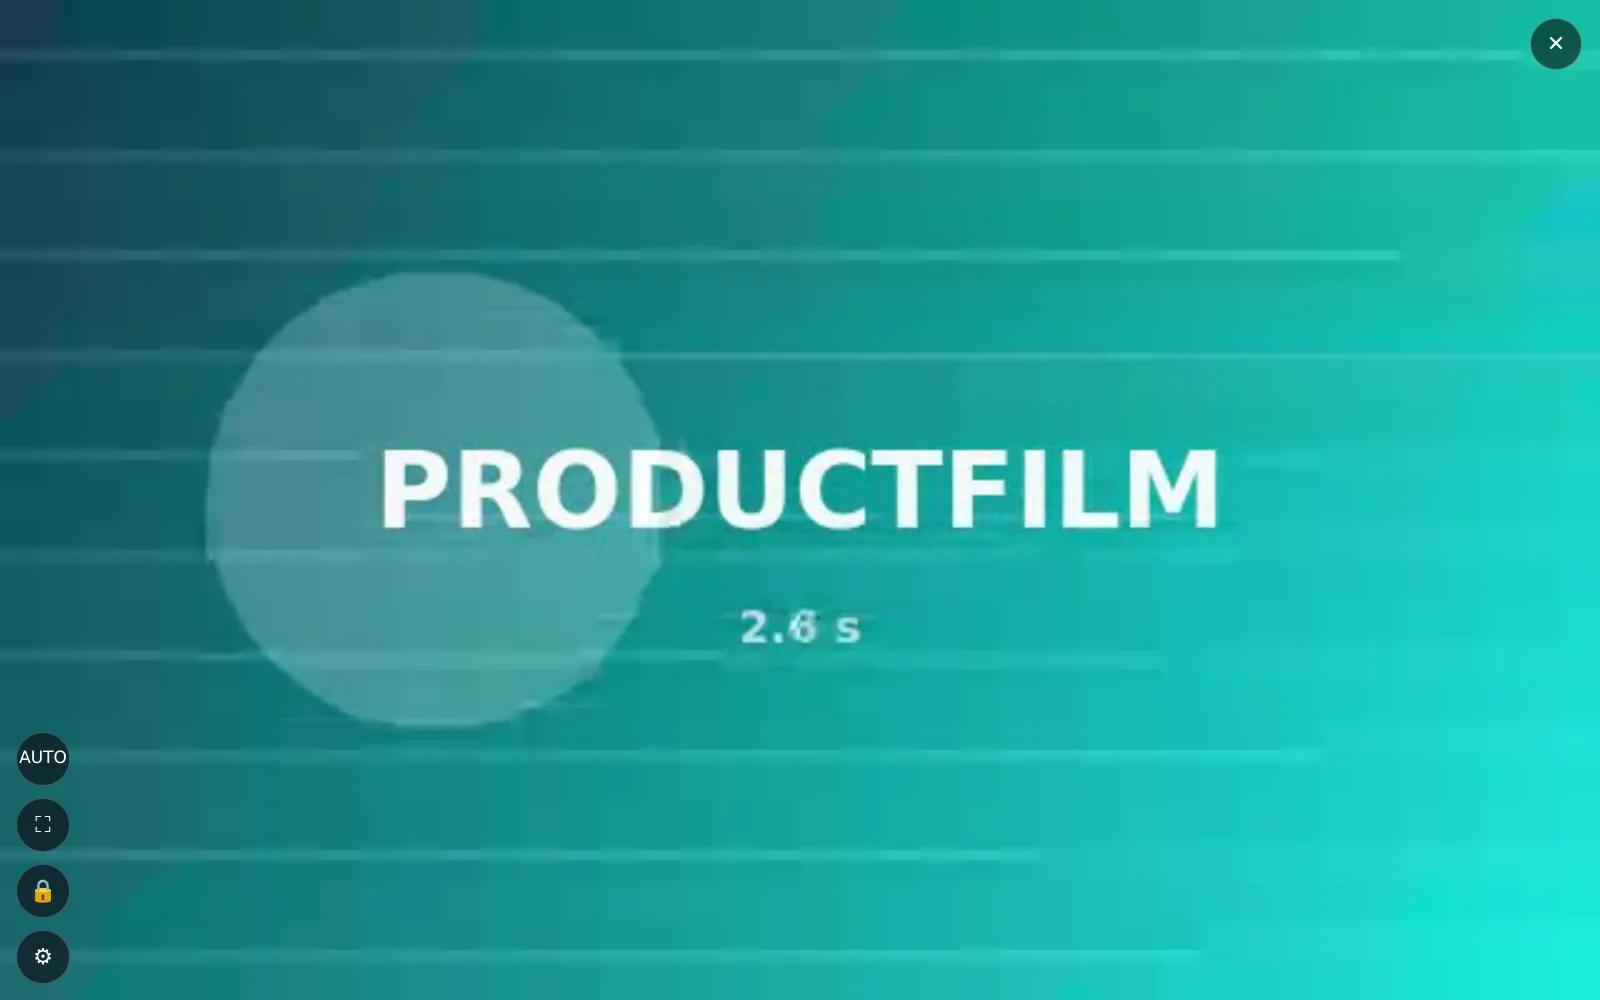
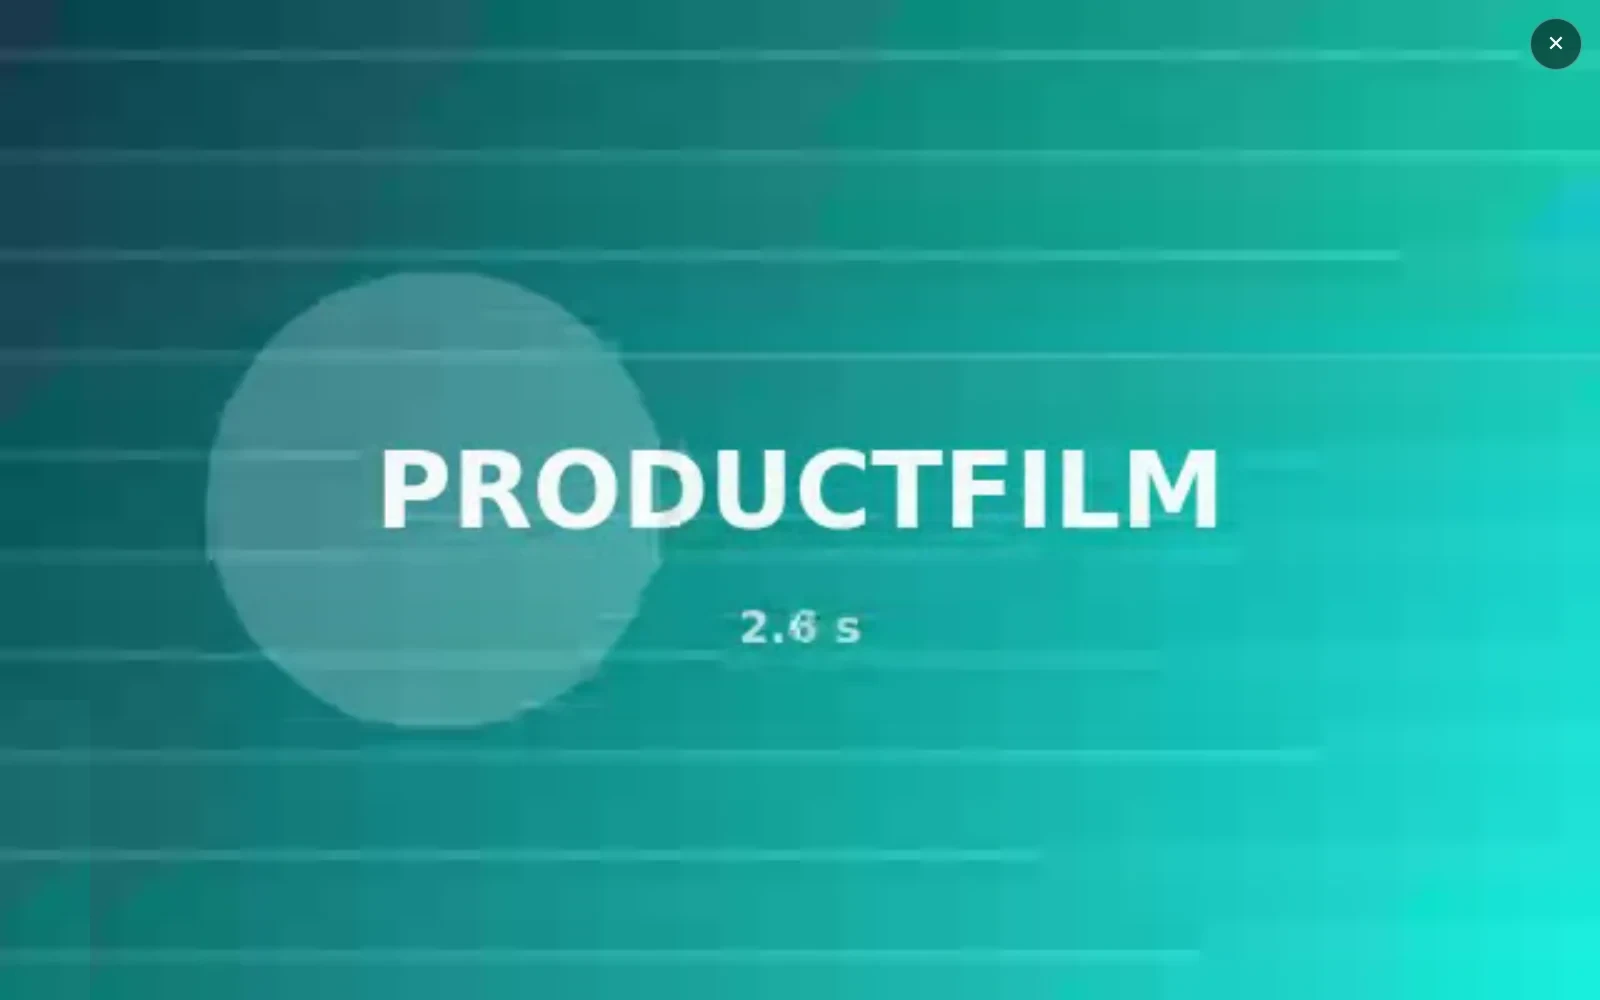
v2.30.0: geen menuknoppen meer op het bezoekersscherm, in geen enkele situatie
Links onder stonden voor bezoekers soms toch de vier ronde knoppen (menu,
verplaatsen, volledig scherm, oriëntatie):
- bij een lege scène (geen knoppen, achtergrondvideo of titel) kwamen ze
  bewust terug, bedoeld voor een nieuwe installatie; wie alleen met de
  reeks en de klikker werkt heeft precies zo'n scène;
- met de keuze "Vaag" of "Zichtbaar" bleven ze staan.

Nu:
- De knoppen staan nooit meer op het scherm (.fab altijd verborgen). Het
  menu opent alleen met 5x tikken linksboven; alles wat de knoppen deden
  zit in het menu. De keuze Verborgen/Vaag/Zichtbaar is vervallen en
  vervangen door uitleg; configversie 20 ruimt de oude instelling op.
- Het welkomstscherm met indelingen verschijnt alleen nog bij een echt
  nieuwe installatie (nog geen bestanden, geen reeks) en zegt hoe je in
  het menu komt. Een indeling kiezen vraagt eerst de PIN als die er is.
- Bedieningsboek, LEES MIJ en vijf afbeeldingen bijgewerkt.

Claude-Session: https://claude.ai/code/session_01JbKNtV5JTsHZmL1UfMwTJN

Changed region(s): [[0.0, 0.713, 0.0625, 0.992]]

diff --git a/docs/handleiding/index.html b/docs/handleiding/index.html
@@ -289,7 +289,7 @@ header.cover{padding-block:88px 8px}
   <b>wat</b> het doet, <b>waar</b> het staat en <b>waarom</b> het er zo uitziet.
   Alle afbeeldingen komen uit de draaiende software, niet uit een ontwerp.</p>
   <div class="meta">
-    <span>Versie 2.29.0</span><span>23 hoofdstukken</span><span>36 schermafbeeldingen</span>
+    <span>Versie 2.30.0</span><span>23 hoofdstukken</span><span>36 schermafbeeldingen</span>
     <span>Nederlands</span>
   </div>
 </header>
@@ -386,10 +386,10 @@ header.cover{padding-block:88px 8px}
   <figure>
     <div class="shot">
       <img src="img/podium.webp" alt="Het podium: de holobox zoals de bezoeker hem ziet, met vier tegels" width="1600" height="1000" loading="lazy">
-      <span class="pin" style="left:6.5%;top:47%">1</span>
+      <span class="pin" style="left:11.5%;top:6.5%">1</span>
       <span class="pin" style="left:32.5%;top:38%">2</span>
       <span class="pin" style="left:50%;top:9.5%">3</span>
-      <span class="pin" style="left:3.4%;top:91%">4</span>
+      <span class="pin" style="left:4%;top:14%">4</span>
     </div>
     <ul class="legend">
       <li><span class="n">1</span><span><b>Het logo</b> <span class="q">— staat er alleen als
@@ -399,11 +399,10 @@ header.cover{padding-block:88px 8px}
         is opzettelijk: de bezoeker ziet vooraf wat er gaat gebeuren.</span></span></li>
       <li><span class="n">3</span><span><b>De titel van de scène</b> <span class="q">— per
         scène apart in te stellen bij Scherm &amp; scène.</span></span></li>
-      <li><span class="n">4</span><span><b>De vier bedieningsknoppen</b> <span class="q">—
-        oriëntatie, volledig scherm, het slot (verplaats-modus) en het tandwiel dat de editor
-        opent. Op de box zijn ze <b>standaard verborgen</b>, zodat omstanders er niet op
-        drukken; het menu open je dan met <b>5&times; snel tikken linksboven</b>. Op deze
-        afbeelding staan ze op Zichtbaar.</span></span></li>
+      <li><span class="n">4</span><span><b>De weg naar het menu</b> <span class="q">— er staan
+        geen menuknoppen op het scherm, zodat bezoekers niet bij de instellingen kunnen. Het
+        menu open je met <b>5&times; snel tikken in de hoek linksboven</b> (binnen 4 seconden;
+        met een muis 5&times; klikken). Zet een PIN voor een extra slot.</span></span></li>
     </ul>
     <figcaption><b>Het podium.</b> Dit is wat er op de holobox staat. Verder niets: geen
     menubalken, geen browser-chrome, geen muisaanwijzer.</figcaption>
@@ -695,10 +694,10 @@ header.cover{padding-block:88px 8px}
   <figure>
     <div class="shot">
       <img src="img/canvas-bewerken.webp" alt="Het canvas in bewerkmodus met raster en hulplijnen" width="1600" height="1000" loading="lazy">
-      <span class="pin" style="left:46%;top:7.7%">1</span>
-      <span class="pin" style="left:62.2%;top:7.7%">2</span>
-      <span class="pin" style="left:72.9%;top:7.7%">3</span>
-      <span class="pin" style="left:77.1%;top:7.7%">4</span>
+      <span class="pin" style="left:56.5%;top:7.6%">1</span>
+      <span class="pin" style="left:62.2%;top:7.6%">2</span>
+      <span class="pin" style="left:72.9%;top:7.6%">3</span>
+      <span class="pin" style="left:77.1%;top:7.6%">4</span>
     </div>
     <ul class="legend">
       <li><span class="n">1</span><span><b>Fit</b> <span class="q">— past het podium precies in
@@ -956,7 +955,7 @@ header.cover{padding-block:88px 8px}
 
   <div class="wwww">
     <div><dt>Wie</dt><dd>De bouwer, per scène.</dd></div>
-    <div><dt>Wat</dt><dd>Titel, achtergrondvideo, overlaag, volume, oriëntatie, bedieningsknoppen,
+    <div><dt>Wat</dt><dd>Titel, achtergrondvideo, overlaag, volume, oriëntatie,
       taal en navigatiehulp.</dd></div>
     <div><dt>Waar</dt><dd>Vierde tabblad. De bovenste blok geldt voor <em>deze</em> scène,
       de onderste voor de hele experience.</dd></div>
@@ -995,13 +994,11 @@ header.cover{padding-block:88px 8px}
           <td>Holoboxen hangen soms gekanteld. Deze instelling draait het beeld mee.</td></tr>
         <tr><td>Knoppen verbergen tijdens afspelen</td><td>Tegels verdwijnen zodra een video start.</td>
           <td>Zonder dit blijft de menulaag over de film heen liggen.</td></tr>
-        <tr><td>Bedieningsknoppen links onder</td><td><b>Verborgen</b> (standaard): de vier
-          ronde knoppen zijn weg en niet aan te raken; het menu open je met 5&times; snel tikken
-          linksboven. <b>Vaag</b>: bijna onzichtbaar, verschijnen bij aanwijzen (de oude
-          kioskmodus). <b>Zichtbaar</b>.</td>
-          <td>Omstanders drukken anders voor de grap op het tandwiel en veranderen instellingen.
-          Zolang een project nog leeg is (welkomstscherm) staan de knoppen er wel, anders
-          kom je bij een nieuwe installatie niet binnen.</td></tr>
+        <tr><td>Menu openen</td><td>Uitleg: er staan geen menuknoppen op het scherm; het menu
+          open je met 5&times; snel tikken in de hoek linksboven.</td>
+          <td>Vroeger stonden links onder vier ronde knoppen. Omstanders drukten erop en
+          veranderden instellingen. Sinds versie 2.30 zijn ze er nooit meer, in geen enkele
+          situatie.</td></tr>
         <tr><td>Meertalig</td><td>Labels en titels per taal; bezoekers kiezen rechtsonder.</td>
           <td>Eén ontwerp voor een internationale beurs, in plaats van twee projecten.</td></tr>
         <tr><td>Taal automatisch herkennen</td><td>Volgt de systeemtaal van de pc.</td>
@@ -1760,7 +1757,7 @@ header.cover{padding-block:88px 8px}
       wachtvideo ís de wachtlus de rusttoestand; de screensaver komt dan niet
       op.</span></span></li>
     <li><span class="n">2</span><span><b>Alleen beeld</b> <span class="q">— de zwevende
-      bedieningsknoppen verdwijnen; er is niets anders in beeld dan de video.</span></span></li>
+      knoppen verdwijnen; er is niets anders in beeld dan de video.</span></span></li>
     <li><span class="n">3</span><span><b>Een toetsenbord kan meer</b> <span class="q">— typ
       een nummer en Enter om naar die video te springen; <code>Home</code> stopt de
       reeks.</span></span></li>
@@ -2417,7 +2414,7 @@ header.cover{padding-block:88px 8px}
     <dt>PIN instellen</dt><dd>Vergrendelt het menu en de verplaats-modus voor bezoekers.
       Zonder PIN kan iedereen die het verborgen gebaar kent het ontwerp aanpassen.</dd>
     <dt>Verborgen gebaar</dt><dd>5× snel tikken in de hoek linksboven (binnen 4 seconden) opent het
-      menu. Met de bedieningsknoppen verborgen — de standaard — is dit de enige weg erin.
+      menu. Er staan geen menuknoppen op het scherm: dit is de enige weg erin.
       Het werkt overal: op het podium, boven de screensaver, tijdens een video en op de
       wachtlus. Onthoud dit — anders kom je op de box niet meer binnen. Met een muis: 5&times;
       klikken.</dd>
@@ -2601,7 +2598,7 @@ header.cover{padding-block:88px 8px}
   <ol class="steps">
     <li><b>Media</b> — zet alle video's, afbeeldingen en modellen in de bibliotheek.</li>
     <li><b>Knoppen &amp; video's</b> — bouw de scènes en zet de tegels op hun plek.</li>
-    <li><b>Scherm &amp; scène</b> — titel, achtergrond, oriëntatie, bedieningsknoppen.</li>
+    <li><b>Scherm &amp; scène</b> — titel, achtergrond, oriëntatie.</li>
     <li><b>Vormgeving</b> — logo, lettertype, frame. Eén keer, geldt voor alles.</li>
     <li><b>Motion</b> — kies een preset, speel hem één keer af, klaar.</li>
     <li><b>Screensaver</b> — playlist en wachttijd.</li>
@@ -2624,8 +2621,8 @@ header.cover{padding-block:88px 8px}
     <thead><tr><th>Wat je ziet</th><th>Waarschijnlijke oorzaak</th><th>Wat je doet</th></tr></thead>
     <tbody>
       <tr><td>Ik kan een knop niet verslepen</td><td>Het canvas staat vergrendeld.</td>
-        <td>Klik op <b>Bewerken</b> in de canvasbalk. (Het slotje linksonder op het podium
-        staat er alleen als de bedieningsknoppen op Zichtbaar of Vaag staan.)</td></tr>
+        <td>Op Knoppen &amp; video's kan het altijd; op andere tabbladen klik je eerst op
+        <b>Bewerken</b> in de canvasbalk.</td></tr>
       <tr><td>Een knop is leeg geworden</td><td>De media eronder is verwijderd of de
         koppeling is verbroken.</td><td>Selecteer de knop en kies opnieuw een bestand bij
         <b>Media</b> in de inspector.</td></tr>
@@ -2675,12 +2672,13 @@ header.cover{padding-block:88px 8px}
       <tr><td>Knoppen staan over elkaar heen op een staand scherm</td><td>De indeling is liggend
         gemaakt.</td><td>Knoppen &amp; video's &rarr; <b>Netjes indelen voor een staand
         scherm</b>. Ongedaan maken kan met &#8630; bovenin.</td></tr>
-      <tr><td>Ik kom niet in het menu</td><td>De bedieningsknoppen zijn verborgen (standaard),
-        of er zit een PIN op.</td><td>5× snel tikken in de hoek linksboven, binnen 4 seconden.
-        Daarna de PIN.</td></tr>
-      <tr><td>Bezoekers veranderen instellingen</td><td>De bedieningsknoppen staan op
-        Zichtbaar of Vaag.</td><td>Zet ze bij Scherm &amp; scène op <b>Verborgen</b>, en zet
-        eventueel een PIN bij Beheer.</td></tr>
+      <tr><td>Ik kom niet in het menu</td><td>Er staan geen menuknoppen op het scherm, of er zit
+        een PIN op.</td><td>5× snel tikken in de hoek linksboven, binnen 4 seconden. Daarna de
+        PIN.</td></tr>
+      <tr><td>Ik zie nog ronde knoppen links onder</td><td>Er draait een versie van vóór 2.30.</td>
+        <td>Installeer de nieuwste versie. Daarna staan ze er nooit meer.</td></tr>
+      <tr><td>Bezoekers veranderen instellingen</td><td>Iemand kent het gebaar linksboven.</td>
+        <td>Zet een PIN bij <b>Opslaan &amp; beheer</b>. Het menu vraagt die dan na de 5 tikken.</td></tr>
       <tr><td>Ik wil terug naar Windows</td><td>De app draait schermvullend.</td><td>Open het
         menu (5&times; tikken linksboven) en klik linksboven op <b>Naar Windows</b>. Met een
         toetsenbord kan ook <kbd>Alt</kbd>+<kbd>F4</kbd>.</td></tr>
@@ -2730,7 +2728,7 @@ header.cover{padding-block:88px 8px}
     <dt><kbd>Ctrl</kbd>+<kbd>Z</kbd></dt><dd>Ongedaan maken — werkt over alle tabbladen heen.</dd>
     <dt><kbd>Ctrl</kbd>+<kbd>Y</kbd></dt><dd>Opnieuw.</dd>
     <dt><kbd>Shift</kbd> + klik</dt><dd>Meerdere knoppen selecteren in de bewerkmodus.</dd>
-    <dt>5× tikken in de hoek linksboven</dt><dd>Opent het menu. Met de bedieningsknoppen verborgen (standaard) de enige weg erin.</dd>
+    <dt>5× tikken in de hoek linksboven</dt><dd>Opent het menu. De enige weg erin: er staan geen menuknoppen op het scherm.</dd>
     <dt><kbd>Alt</kbd>+<kbd>F4</kbd></dt><dd>Programma afsluiten (of in het menu: <b>Naar Windows</b>).</dd>
     <dt>Naar rechts vegen</dt><dd>Vorige scène, als “Vegen om terug te gaan” aanstaat.</dd>
     <dt>Hand omhoog</dt><dd>Terug naar het menu, als het handgebaar aanstaat (hoofdstuk 14).</dd>
@@ -2762,8 +2760,8 @@ header.cover{padding-block:88px 8px}
         exact dezelfde landing.</td></tr>
       <tr><td>Video Frame Style</td><td>De stijl van het kader om een videoknop: kleur, dikte,
         diepte, gloss, schaduw en gloed.</td></tr>
-      <tr><td>Kioskmodus</td><td>Schermvullend, zonder vensterrand of browserbalk. De
-        bedieningsknoppen kies je apart: verborgen, vaag of zichtbaar.</td></tr>
+      <tr><td>Kioskmodus</td><td>Schermvullend, zonder vensterrand of browserbalk. Menuknoppen
+        staan nooit op het scherm; het menu opent met 5&times; tikken linksboven.</td></tr>
       <tr><td>Watchdog</td><td>De bewaker die de presentatie herstart als het beeld
         stilstaat.</td></tr>
       <tr><td>Opnieuw ijken</td><td>De box legt zijn achtergrondbeeld opnieuw vast, zodat
@@ -2787,7 +2785,7 @@ header.cover{padding-block:88px 8px}
 
   <hr class="soft">
   <p class="measure" style="color:var(--ink-3);font-size:14.5px">
-    Dit boek hoort bij versie 2.29.0 van de HereWeHolo Experience Manager. De bewegingswetten
+    Dit boek hoort bij versie 2.30.0 van de HereWeHolo Experience Manager. De bewegingswetten
     achter Motion staan uitgeschreven in <code>docs/MOTION.md</code>; het systeem zelf kun je
     in werking zien in <code>motion/motion-system.html</code>.
   </p>

diff --git a/studio/index.html b/studio/index.html
@@ -499,12 +499,12 @@
   #lockFab { left: 16px; bottom: 82px; }
   #fsFab { left: 16px; bottom: 148px; }
   body.editing #lockFab { background: var(--accent-dark); border-color: var(--accent); }
-  body.clean .fab { opacity: 0.14; }
-  body.clean .fab:hover { opacity: 1; }
-  /* Verborgen: echt weg, niet aanraakbaar. Alleen tijdens het verplaatsen blijft
-     het slotje staan — daarmee zet je de knoppen weer vast. */
-  body.knoppen-weg .fab { display: none; }
-  body.knoppen-weg.editing #lockFab { display: flex; }
+  /* De vier ronde knoppen links onder (menu, verplaatsen, volledig scherm,
+     oriëntatie) zijn er voor bezoekers nooit: omstanders drukten erop en
+     veranderden instellingen. Het menu opent alleen met 5× tikken
+     linksboven; alles wat de knoppen deden zit in het menu zelf. Ze blijven
+     in de pagina staan zodat bestaande koppelingen blijven werken. */
+  .fab { display: none !important; }
 
   /* ============ MENU-PANEEL — professioneel controlepaneel ============
      Rustige typografie, hairlines, subtiele reliëftextuur (ingebed, offline)
@@ -1154,6 +1154,7 @@
        screensaver staan dan meteen goed. Daarna vervang je de teksten en zet je
        je eigen video's erin.</p>
     <div id="sjablonen"></div>
+    <p class="klein">Het menu open je met <b>5&times; snel tikken in de hoek linksboven</b>.</p>
     <p class="klein">Liever zelf beginnen? Kies <b>Leeg scherm</b>. Je kunt later altijd
        nog een andere indeling kiezen via <b>Overzicht &rarr; Snel aan de slag</b>.</p>
   </div>
@@ -1485,15 +1486,13 @@
         <div><div class="t-label">Knoppen verbergen tijdens afspelen</div></div>
         <label class="switch"><input type="checkbox" id="cfgHideBtns"><i></i></label>
       </div>
-      <label class="field">Bedieningsknoppen links onder
-        <select id="cfgKnoppen">
-          <option value="verborgen">Verborgen &mdash; alleen 5&times; tikken linksboven opent het menu (aanbevolen)</option>
-          <option value="vaag">Vaag &mdash; bijna onzichtbaar, verschijnen bij aanwijzen</option>
-          <option value="zichtbaar">Zichtbaar</option>
-        </select>
-      </label>
-      <p class="note">Verborgen: bezoekers zien en raken geen menuknop. Jij komt in het menu met
-      <b>5&times; snel tikken in de hoek linksboven</b> (met een muis: 5&times; klikken).</p>
+      <div class="toggle-row" id="cfgMenuUitleg">
+        <div><div class="t-label">Menu openen</div>
+          <div class="t-sub">Er staan geen menuknoppen op het scherm, zodat bezoekers niet bij de
+          instellingen kunnen. Het menu open je met <b>5&times; snel tikken in de hoek
+          linksboven</b> (met een muis: 5&times; klikken). Zet een PIN bij Opslaan &amp; beheer
+          als extra slot.</div></div>
+      </div>
     </div>
     <h2>Taal &amp; navigatie</h2>
     <div class="card">
@@ -2395,7 +2394,7 @@
 <script>
 'use strict';
 
-const APP_VERSION = '2.29.0';
+const APP_VERSION = '2.30.0';
 
 /* ================= Feature-flags (masterspec §0) ================= */
 // Actieve opties uit de genummerde catalogus; nieuwe nummers hier aanzetten.
@@ -2427,7 +2426,7 @@ const AppState = {
 const LS_KEY = 'hwh_studio_config_v1';
 
 const defaultConfig = () => ({
-  version: 19,
+  version: 20,
   scenes: [],          // Project -> Scenes -> knoppen (masterspec §22)
   homeSceneId: null,
   motion: { preset: 'corporate', intensity: 'immersive', overrides: { effect: 'galaxyTiles' } },
@@ -2457,11 +2456,6 @@ const defaultConfig = () => ({
   title: '',
   idleMediaId: null,
   hideButtonsDuringPlay: true,
-  /* De ronde bedieningsknoppen links onder (menu, verplaatsen, volledig
-     scherm, oriëntatie). 'verborgen': weg; alleen 5× tikken linksboven opent
-     het menu, zodat omstanders niet aan de instellingen zitten.
-     'vaag': bijna onzichtbaar, verschijnen bij aanwijzen. 'zichtbaar'. */
-  bedieningsKnoppen: 'verborgen',
   orientationMode: 'auto', // 'auto' | 'portrait' | 'landscape'
   // sound/volume: de playlist speelde altijd gedempt, ook in achtergrondmodus.
   screensaver: { enabled: false, delaySec: 120, mediaIds: [],
@@ -2632,9 +2626,11 @@ function migrateConfig(stored) {
   // v19: bedieningsknoppen standaard weg — ook in bestaande projecten, want
   // juist op een staande box drukken omstanders er voor de grap op. De oude
   // kioskmodus (vage knoppen) is nu de keuze 'vaag'.
-  if ((stored.version || 0) < 19) c.bedieningsKnoppen = 'verborgen';
   delete c.cleanMode;
-  c.version = 19;
+  // v20: de bedieningsknoppen zijn er nooit meer (ook niet als 'vaag' of
+  // 'zichtbaar' gekozen was, of bij een lege scène). Menu: 5× tikken linksboven.
+  delete c.bedieningsKnoppen;
+  c.version = 20;
   delete c.buttons; delete c.title; delete c.idleMediaId;
   return c;
 }
@@ -3761,13 +3757,13 @@ function renderStage() {
     logo.removeAttribute('src');
   }
   const leeg = !(curButtons().length > 0 || curScene().idleMediaId || sceneTitle(curScene()));
-  $('#welcome').classList.toggle('hidden', !leeg);
-  if (leeg && !$('#sjablonen')?.children.length) renderSjablonen();
-  // Leeg project (welkomstscherm): knoppen altijd zichtbaar, anders kom je er
-  // bij een nieuwe installatie niet in.
-  const knoppen = leeg ? 'zichtbaar' : (config.bedieningsKnoppen || 'verborgen');
-  document.body.classList.toggle('clean', knoppen === 'vaag');
-  document.body.classList.toggle('knoppen-weg', knoppen === 'verborgen');
+  /* Het welkomstscherm met indelingen alleen bij een echt nieuwe installatie:
+     nog geen enkel bestand en geen reeks. Een lege scène op een ingerichte box
+     (bijvoorbeeld alleen een reeks met de klikker) liet bezoekers anders een
+     indeling kiezen. Pas na het laden van de media, anders flitst hij even op. */
+  const welkom = leeg && mediaGeladen && mediaCache.size === 0 && !(config.reeks?.items || []).length;
+  $('#welcome').classList.toggle('hidden', !welkom);
+  if (welkom && !$('#sjablonen')?.children.length) renderSjablonen();
   renderBreadcrumb();
   renderLangBar();
 
@@ -5780,7 +5776,7 @@ function renderSjablonen() {
   box.innerHTML = '';
   for (const sj of SJABLONEN) {
     box.append(el('button', { class: 'sjab', type: 'button',
-      onclick: () => pasSjabloonToe(sj) },
+      onclick: async () => { if (await requireAdmin()) pasSjabloonToe(sj); } },
       sjabVoorbeeld(sj),
       el('div', { class: 'nm' }, sj.naam),
       el('div', { class: 'om' }, sj.om)));
@@ -7955,7 +7951,6 @@ function renderLook() {
   $('#cfgIdleVolume').value = curScene().idleVolume ?? 60;
   updateSoundNotes();
   $('#cfgHideBtns').checked = config.hideButtonsDuringPlay;
-  $('#cfgKnoppen').value = config.bedieningsKnoppen || 'verborgen';
   $('#cfgOrientation').value = config.orientationMode || 'auto';
   $('#thFont').value = config.theme.font;
   $('#thWeight').value = String(config.theme.weight);
@@ -8220,10 +8215,6 @@ $('#cfgMasterVol').addEventListener('input', (e) => {
   refreshAllBgSound();   // achtergrond en screensaver vallen ook onder het hoofdvolume
 });
 $('#cfgHideBtns').addEventListener('change', (e) => { config.hideButtonsDuringPlay = e.target.checked; save(); });
-$('#cfgKnoppen').addEventListener('change', (e) => {
-  config.bedieningsKnoppen = e.target.value; save(); renderStage();
-  if (e.target.value === 'verborgen') toast('Knoppen verborgen — menu: 5× tikken linksboven');
-});
 $('#cfgOrientation').addEventListener('change', (e) => { setOrientationMode(e.target.value); });
 
 /* ---- Scènebeheer ---- */
@@ -11800,6 +11791,7 @@ window.addEventListener('error', () => {
 setInterval(() => { errorBurst = Math.max(0, errorBurst - 5); }, 60000);
 
 /* ================= Start ================= */
+var mediaGeladen = false;   // var: renderStage vraagt ernaar vóór dit punt
 (async () => {
   try {
     idb = await openDb();
@@ -11818,6 +11810,7 @@ setInterval(() => { errorBurst = Math.max(0, errorBurst - 5); }, 60000);
   } catch (e) {
     toast('Let op: video-opslag niet beschikbaar in deze browser');
   }
+  mediaGeladen = true;
   buildSections();
   autoDetectLanguage();
   renderStage();
